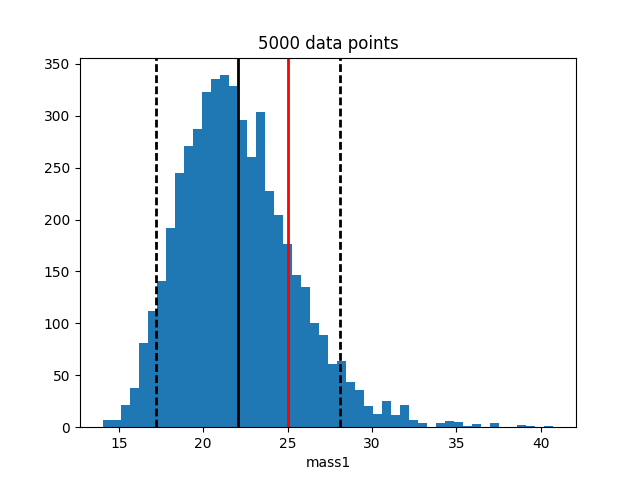
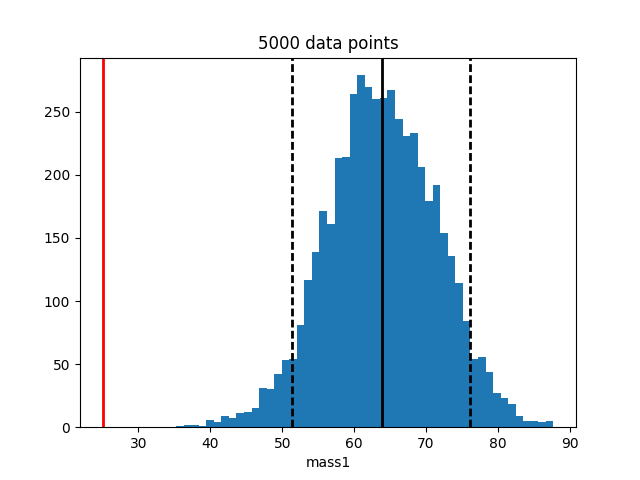
FINALLY FIXED!!!

diff --git a/Inference/postMulti.py b/Inference/postMulti.py
@@ -155,8 +155,8 @@ def plotPosterior(parameter):
       mchirp=injected["mchirp"]
       q=injected["q"]
       q=1./q ## <-- flip again, this is gonna get boring
-      m1=mchirp*((1.+q)**(1./5.))*(q)**(2./5.)
-      m2=mchirp*((1.+q)**(1./5.))*(q)**(-3./5.)
+      m2=mchirp*((1.+q)**(1./5.))*(q)**(2./5.)
+      m1=mchirp*((1.+q)**(1./5.))*(q)**(-3./5.)
       s1a=injected["spin1_a"]
       s2a=injected["spin2_a"]
       s1_polar=injected["spin1_polar"]
